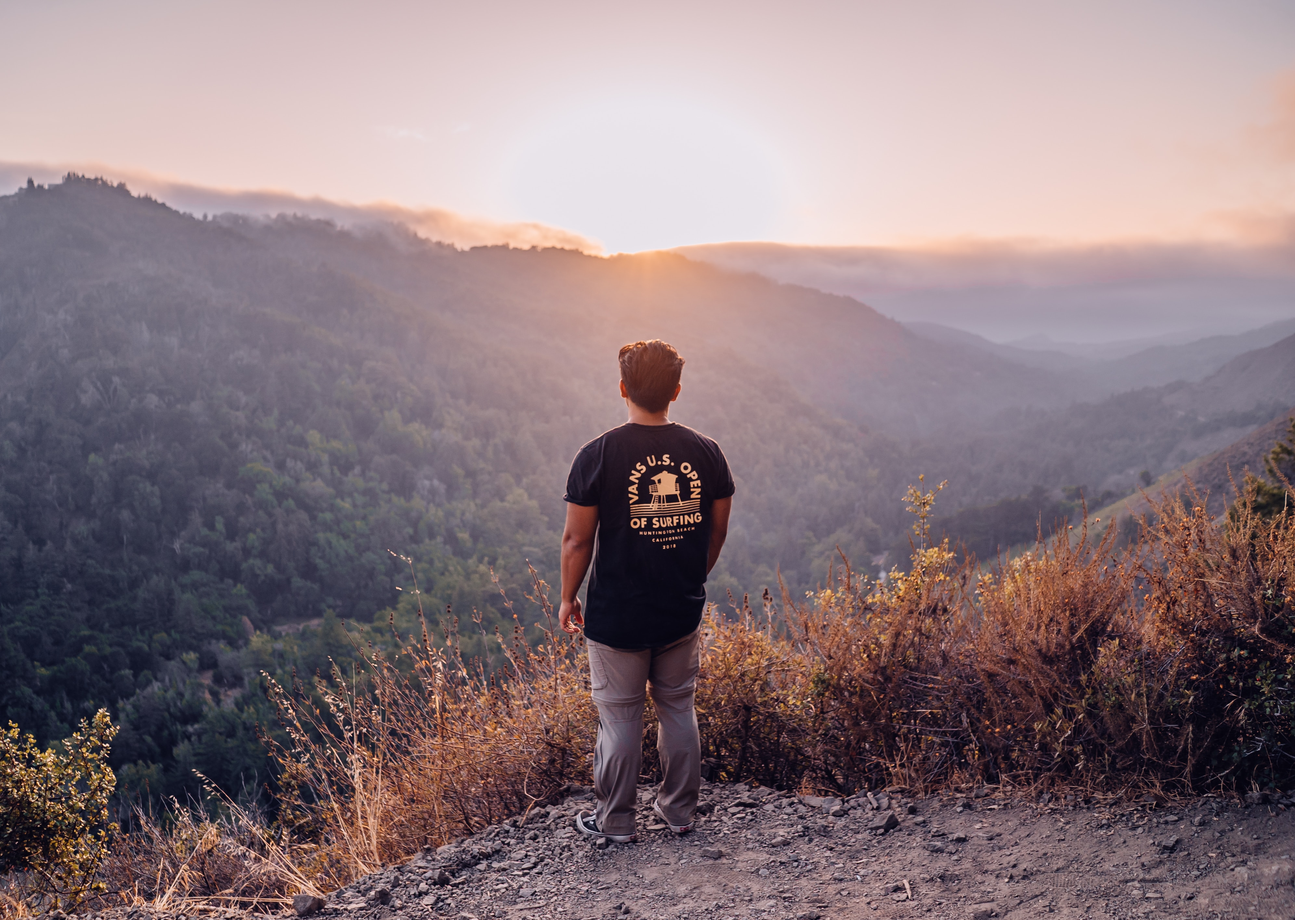
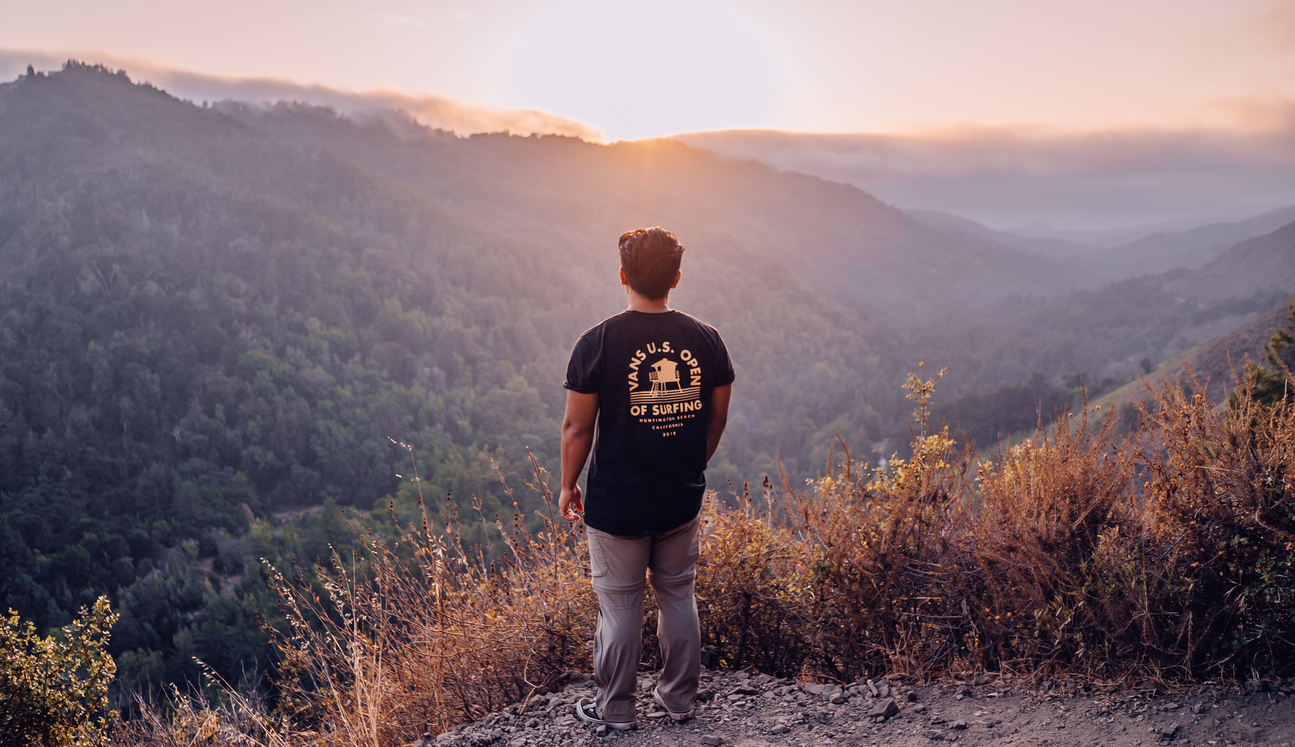
Add style presentation

diff --git a/style.css b/style.css
@@ -2,12 +2,16 @@ body{
     font-family: 'Roboto', sans-serif;
     margin: 0;
 }
+/*---------Header---------*/
+
 .header{
     display: flex;
     justify-content: space-between;
     align-items: center;
+    padding: 0 250px;
 }
 .header,
+.presentation,
 .footer{
     background-color: #1F2937;
 }
@@ -24,11 +28,41 @@ a{
 .logo{
     font-size: 24px;
     color: #F9FAF8;
-    padding: 32px;
+    padding: 32px 0;
+    font-weight: 700;
 }
 .links{
     display: flex;
     gap: 32px;
     font-size: 18px;
-    padding: 32px;
+    padding: 32px 0;
+}
+/*---------Presentation---------*/
+.presentation{
+    display: flex;
+    gap: 16px;
+    justify-content: center;
+    align-items: center;
+    padding: 128px 250px 128px 250px;
+}
+h1{
+    font-size: 48px;
+    font-weight: 800;
+    color: #F9FAF8;
+}
+#presentation-text{
+    font-size: 18px;
+    color: #E5E7EB;
+}
+#img-presentation{
+    height: 300px;
+}
+button{
+    background-color: #3882F6;
+    color: #F9FAF8;
+    font-size: 18px;
+    font-weight: 600;
+    padding: 8px 32px;
+    border-style: none;
+    border-radius: 8px;
 }

diff --git a/index.html b/index.html
@@ -26,11 +26,11 @@
         <div class="presentation">
             <div class="left-side">
             <h1>This website is awesome</h1>
-            <p>This website has some subtext that goes here under the main title. It's a smaller font and the color is lower contrast</p>
+            <p id="presentation-text">This website has some subtext that goes here under the main title. It's a smaller font and the color is lower contrast</p>
             <button>Sign up</button>
             </div>
             <div class="right-side">
-                <img src="img/img-presentation.jpg" alt="man in front of a mountain">
+                <img src="img/img-presentation.jpg" alt="man in front of a mountain" id="img-presentation">
             </div>
         </div>
         <div class="informations" id="infos-link">
